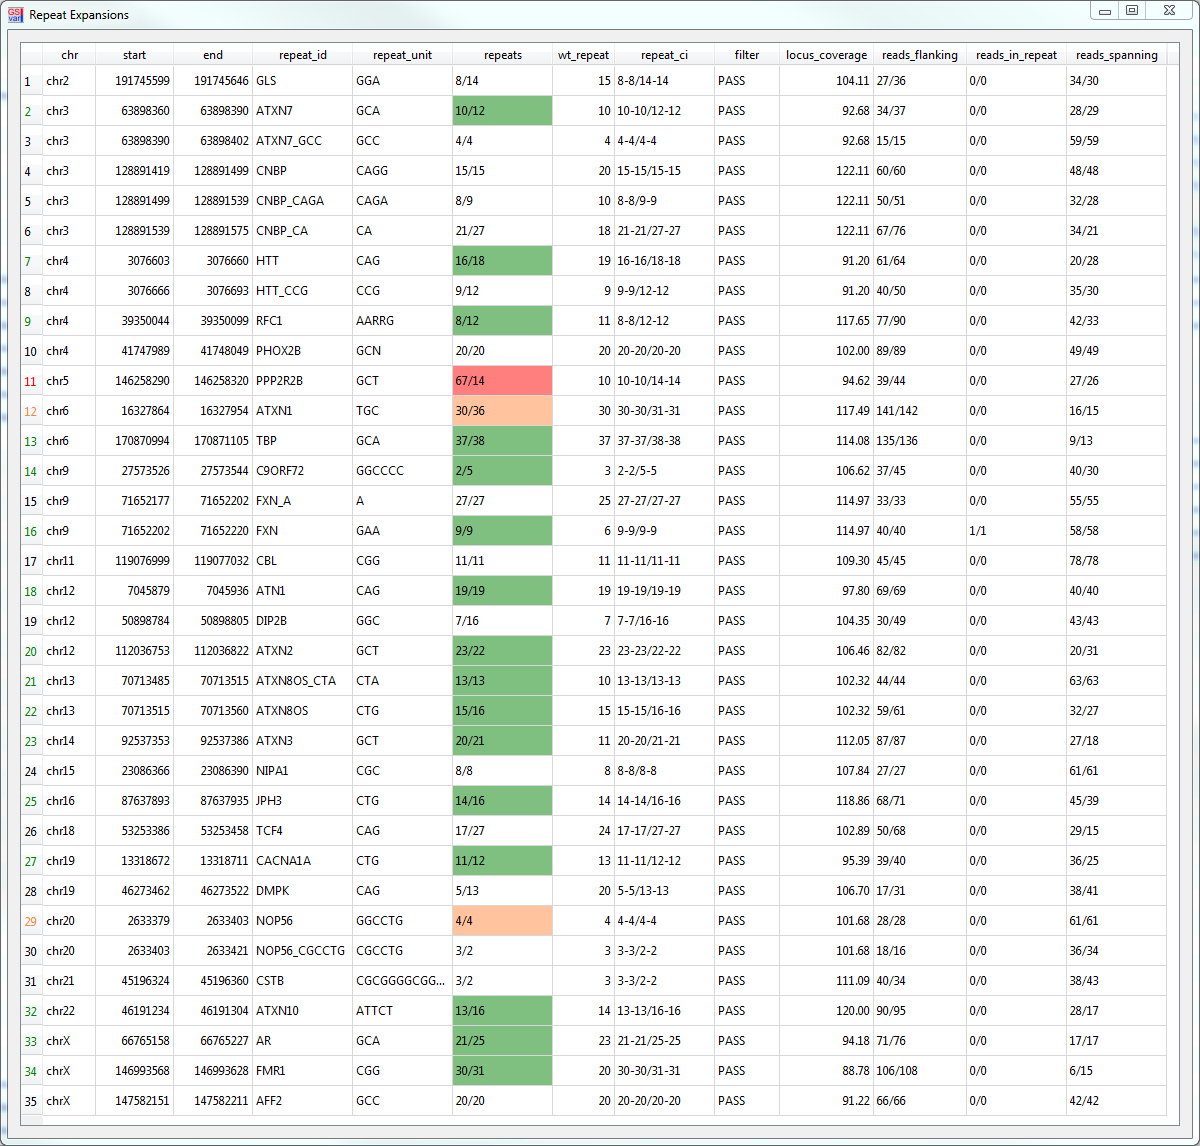
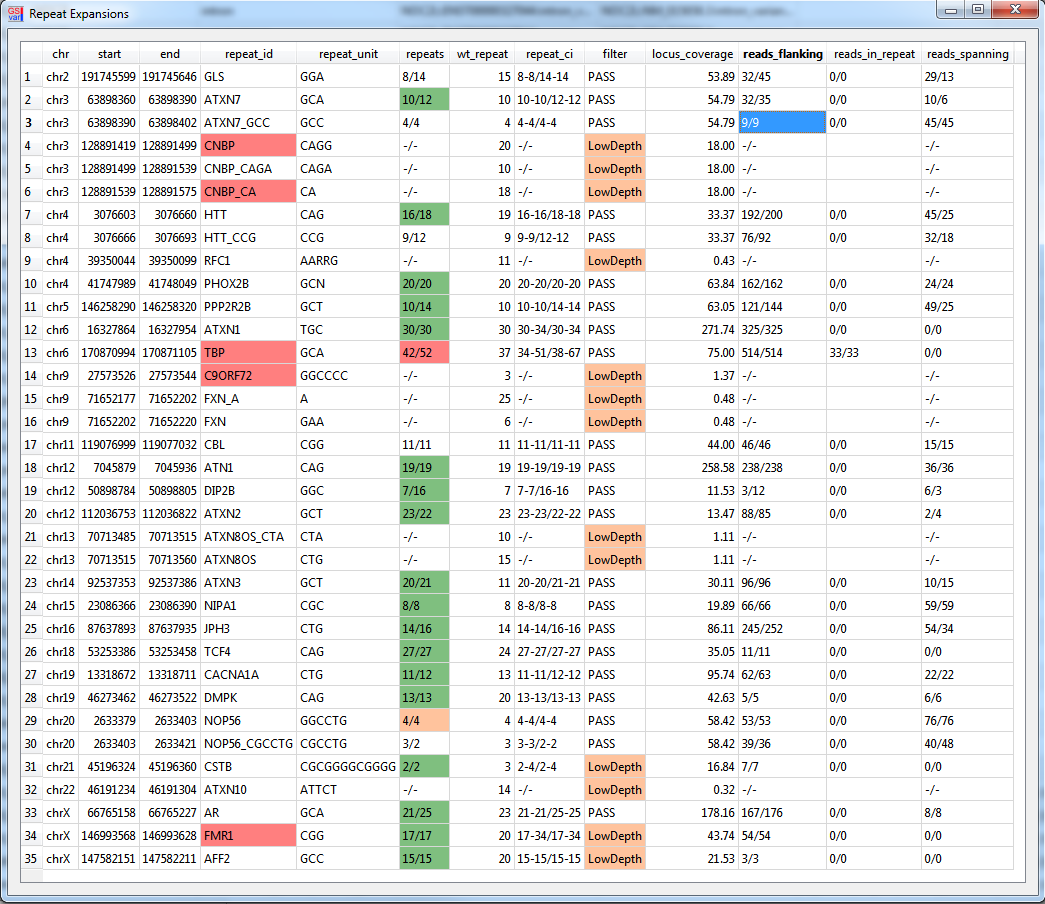
src/GSvar/RepeatExpansionWidget.*: - added coloring of not reliable calls in exome samples - reformated table (column widths, missing values) - extended tool tip for repeats
src/GSvar/Resources/repeat_expansion_cutoffs.tsv: updated cutoff values

doc/GSvar/repeat_expansion_view.*: updated docu

diff --git a/src/GSvar/RepeatExpansionWidget.cpp b/src/GSvar/RepeatExpansionWidget.cpp
@@ -21,9 +21,10 @@ bool NumericWidgetItem::operator<(const QTableWidgetItem& other) const
 	return (this_value < other_value);
 }
 
-RepeatExpansionWidget::RepeatExpansionWidget(QString vcf_filename, QWidget* parent):
+RepeatExpansionWidget::RepeatExpansionWidget(QString vcf_filename, bool is_exome, QWidget* parent):
 	QWidget(parent),
 	vcf_filename_(vcf_filename),
+	is_exome_(is_exome),
 	ui_(new Ui::RepeatExpansionWidget)
 {
 	ui_->setupUi(this);
@@ -42,25 +43,40 @@ void RepeatExpansionWidget::loadRepeatExpansionData()
 	repeat_expansions.load(vcf_filename_);
 
 	//load filter file
-	QMap<QPair<QByteArray,QByteArray>, RepeatCutoff> filters;
-	QStringList filter_content = Helper::loadTextFile(":/Resources/repeat_expansion_cutoffs.tsv", true);
+	QMap<QPair<QByteArray,QByteArray>, RepeatCutoffInfo> cutoff_info_map;
+	QStringList cutoff_file_content = Helper::loadTextFile(":/Resources/repeat_expansion_cutoffs.tsv", false);
 
-	foreach (const QString& line, filter_content)
+	foreach(const QString& line, cutoff_file_content)
 	{
 		// skip empty lines and comments
 		if((line=="") || (line.startsWith("#"))) continue;
 
-		// parse line
+		//parse line
 		QStringList split_line = line.split('\t');
-		if (split_line.size() < 5) THROW(FileParseException, "Error parsing repeat expansion file: file has to contain 4 tab-separated columns!");
-		RepeatCutoff repeat_cutoff;
+		if (split_line.size() < 7) THROW(FileParseException, "Error parsing repeat expansion file: file has to contain 7 tab-separated columns!");
+		RepeatCutoffInfo repeat_cutoff;
 
 		repeat_cutoff.repeat_id = split_line.at(0).trimmed().toUtf8();
 		repeat_cutoff.repeat_unit = split_line.at(1).trimmed().toUtf8();
-		repeat_cutoff.max_normal = Helper::toInt(split_line.at(2));
-		repeat_cutoff.min_pathogenic = Helper::toInt(split_line.at(3));
+		if(split_line.at(2).trimmed() == "") repeat_cutoff.max_normal = -1;
+		else repeat_cutoff.max_normal = Helper::toInt(split_line.at(2));
+		if(split_line.at(3).trimmed() == "") repeat_cutoff.min_pathogenic = -1;
+		else repeat_cutoff.min_pathogenic = Helper::toInt(split_line.at(3));
 		repeat_cutoff.inheritance = split_line.at(4).trimmed().toUtf8();
-		filters.insert(QPair<QByteArray,QByteArray>(repeat_cutoff.repeat_id, repeat_cutoff.repeat_unit), repeat_cutoff);
+
+
+		//parse exome reliability
+		QByteArray reliable_in_exomes = split_line.at(5).trimmed().toUtf8();
+		if(reliable_in_exomes == "0") repeat_cutoff.reliable_in_exomes = false;
+		else repeat_cutoff.reliable_in_exomes = true;
+		//parse additional info
+		QByteArrayList additional_info = split_line.at(6).trimmed().toUtf8().split(';');
+		foreach(const QByteArray& info, additional_info)
+		{
+			if(info.trimmed() != "") repeat_cutoff.additional_info.append(info.trimmed());
+		}
+
+		cutoff_info_map.insert(QPair<QByteArray,QByteArray>(repeat_cutoff.repeat_id, repeat_cutoff.repeat_unit), repeat_cutoff);
 	}
 
 	//create table
@@ -127,10 +143,25 @@ void RepeatExpansionWidget::loadRepeatExpansionData()
 	ui_->repeat_expansions->setRowCount(repeat_expansions.count());
 	for(int row_idx=0; row_idx<repeat_expansions.count(); ++row_idx)
 	{
-		// add vertical header item
-		ui_->repeat_expansions->setVerticalHeaderItem(row_idx, new QTableWidgetItem(QString::number(row_idx+1)));
 		Variant re = repeat_expansions[row_idx];
 		int col_idx = 0;
+
+		// get cutoff/reliability info from cutoff file
+		QPair<QByteArray, QByteArray> key = QPair<QByteArray, QByteArray>(re.annotations()[repeat_id_idx].trimmed(), re.annotations()[repeat_unit_idx].trimmed());
+		if(!cutoff_info_map.contains(key))
+		{
+			THROW(FileParseException, "Repeat '" + re.annotations()[repeat_id_idx].trimmed() + ", " + re.annotations()[repeat_unit_idx].trimmed() + "' not fout in cutoff file!");
+		}
+		RepeatCutoffInfo cutoff_info = cutoff_info_map.value(key);
+
+		//create repeat tool tip:
+		QStringList repeat_tool_tip_text;
+		if(cutoff_info.max_normal != -1) repeat_tool_tip_text.append("normal: \t≤ " + QString::number(cutoff_info.max_normal));
+		else repeat_tool_tip_text.append("normal: \t unkown ");
+		if(cutoff_info.min_pathogenic != -1) repeat_tool_tip_text.append("pathogenic: \t> " + QString::number(cutoff_info.min_pathogenic));
+		else repeat_tool_tip_text.append("pathogenic: \t unkown ");
+		if(cutoff_info.inheritance != "" ) repeat_tool_tip_text.append("inheritance: \t" + cutoff_info.inheritance);
+		if(cutoff_info.additional_info.size() > 0) repeat_tool_tip_text.append("info: \t\t" + cutoff_info.additional_info.join("\n\t\t"));
 
 		//add position
 		ui_->repeat_expansions->setItem(row_idx, col_idx++, new QTableWidgetItem(QString(re.chr().strNormalized(true))));
@@ -138,67 +169,63 @@ void RepeatExpansionWidget::loadRepeatExpansionData()
 		ui_->repeat_expansions->setItem(row_idx, col_idx++, new NumericWidgetItem(QString(re.annotations()[end_idx])));
 
 		//add repeat
-		ui_->repeat_expansions->setItem(row_idx, col_idx++, new QTableWidgetItem(QString(re.annotations()[repeat_id_idx])));
+		QTableWidgetItem* repeat_id_cell = new QTableWidgetItem(QString(re.annotations()[repeat_id_idx]));
+		if (is_exome_ && !cutoff_info.reliable_in_exomes )
+		{
+			repeat_id_cell->setBackgroundColor(bg_red);
+			repeat_id_cell->setToolTip("Repeat calling of this repeat is not reliable in Exomes!");
+		}
+		ui_->repeat_expansions->setItem(row_idx, col_idx++, repeat_id_cell);
 		ui_->repeat_expansions->setItem(row_idx, col_idx++, new QTableWidgetItem(QString(re.annotations()[repeat_unit_idx])));
 
 		//add allele/ref copy number
-		QTableWidgetItem* repeat_cell = new QTableWidgetItem(QString(re.annotations()[allele_repeats_idx]));
+		//replace "." with "-"
+		QString repeat_text = re.annotations()[allele_repeats_idx];
+		if (repeat_text.trimmed() == ".") repeat_text = "-";
+		if (repeat_text.trimmed() == "./.") repeat_text = "-/-";
+		QTableWidgetItem* repeat_cell = new QTableWidgetItem(repeat_text);
 
 		//color table acording to cutoff table
-		QPair<QByteArray, QByteArray> key = QPair<QByteArray, QByteArray>(re.annotations()[repeat_id_idx].trimmed(), re.annotations()[repeat_unit_idx].trimmed());
-		QString tool_tip_text = "No repeat information available.";
-		if (filters.contains(key))
+		QByteArrayList repeats = re.annotations()[allele_repeats_idx].split('/');
+		int repeats_allele1, repeats_allele2;
+		if ((repeats.size() < 1) || (repeats.size() > 2)) THROW(FileParseException, "Invalid allele count in repeat entries!");
+
+		// skip coloring if no repeat information is available:
+		if (repeats.at(0).trimmed() != ".")
 		{
-			RepeatCutoff cutoff = filters.value(key);
-			tool_tip_text = "normal: \t ≤ " + QString::number(cutoff.max_normal)
-					+ "\npathogenic: \t > " + QString::number(cutoff.min_pathogenic)
-					+ "\ninheritance: \t " + cutoff.inheritance;
+			repeats_allele1 = Helper::toInt(repeats.at(0), "Repeat allele 1", QString::number(row_idx));
 
-			QByteArrayList repeats = re.annotations()[allele_repeats_idx].split('/');
-			int repeats_allele1, repeats_allele2;
-			if ((repeats.size() < 1) || (repeats.size() > 2)) THROW(FileParseException, "Invalid allele count in repeat entries!");
+			if (repeats.size() == 1) repeats_allele2 = 0; // special case for male samples on chrX
+			else repeats_allele2 = Helper::toInt(repeats.at(1), "Repeat allele 2", QString::number(row_idx));
 
-			// skip coloring if no repeat information is available:
-			if (repeats.at(0).trimmed() != ".")
+			//check if pathogenic
+			if ((cutoff_info.min_pathogenic != -1) &&
+				((repeats_allele1 >= cutoff_info.min_pathogenic) || (repeats_allele2 >= cutoff_info.min_pathogenic)))
 			{
-				repeats_allele1 = Helper::toInt(repeats.at(0), "Repeat allele 1", QString::number(row_idx));
-
-				if (repeats.size() == 1) repeats_allele2 = 0; // special case for male samples on chrX
-				else repeats_allele2 = Helper::toInt(repeats.at(1), "Repeat allele 2", QString::number(row_idx));
-
-				if ((repeats_allele1 > cutoff.min_pathogenic) || (repeats_allele2 > cutoff.min_pathogenic))
-				{
-					// at least one allele has a pathogenic repeat count
-					ui_->repeat_expansions->verticalHeaderItem(row_idx)->setTextColor(Qt::red);
-					repeat_cell->setBackgroundColor(bg_red);
-				}
-				else if ((repeats_allele1 <= cutoff.max_normal) && (repeats_allele2 <= cutoff.max_normal))
-				{
-					// repeat count in both alleles is in normal range
-					ui_->repeat_expansions->verticalHeaderItem(row_idx)->setTextColor(Qt::darkGreen);
-					repeat_cell->setBackgroundColor(bg_green);
-				}
-				else
-				{
-					// at least one allele is above normal range, but not in pathogenic range
-					ui_->repeat_expansions->verticalHeaderItem(row_idx)->setTextColor(QColor(255, 135, 60)); //orange
-					repeat_cell->setBackgroundColor(bg_orange);
-				}
+				//pathogenic
+				repeat_cell->setBackgroundColor(bg_red);
+			}
+			else if ((cutoff_info.max_normal != -1) &&
+					 ((repeats_allele1 > cutoff_info.max_normal) || (repeats_allele2 > cutoff_info.max_normal)))
+			{
+				//above normal
+				repeat_cell->setBackgroundColor(bg_orange);
+			}
+			else if (cutoff_info.max_normal != -1)
+			{
+				//normal
+				repeat_cell->setBackgroundColor(bg_green);
 			}
 		}
-		else
-		{
-			// no information available --> color black
-			ui_->repeat_expansions->verticalHeaderItem(row_idx)->setTextColor(Qt::black);
-		}
 
-		repeat_cell->setToolTip(tool_tip_text);
+
+		repeat_cell->setToolTip(repeat_tool_tip_text.join('\n'));
 
 		ui_->repeat_expansions->setItem(row_idx, col_idx++, repeat_cell);
 		ui_->repeat_expansions->setItem(row_idx, col_idx++, new NumericWidgetItem(QString(re.annotations()[ref_repeats_idx])));
 
 		//add additional info
-		ui_->repeat_expansions->setItem(row_idx, col_idx++, new QTableWidgetItem(QString(re.annotations()[repeat_ci_idx])));
+		ui_->repeat_expansions->setItem(row_idx, col_idx++, new QTableWidgetItem(QString(re.annotations()[repeat_ci_idx].replace("./.", "-/-").replace(".", "-"))));
 
 		//add filter column and color background if not 'PASS'
 		QTableWidgetItem* filter_cell = new QTableWidgetItem(QString(re.annotations()[filter_idx]));
@@ -210,11 +237,14 @@ void RepeatExpansionWidget::loadRepeatExpansionData()
 		ui_->repeat_expansions->setItem(row_idx, col_idx++, new NumericWidgetItem(QString::number(coverage, 'f', 2)));
 
 		//add read counts
-		ui_->repeat_expansions->setItem(row_idx, col_idx++, new QTableWidgetItem(QString(re.annotations()[fl_reads_idx])));
-		ui_->repeat_expansions->setItem(row_idx, col_idx++, new QTableWidgetItem(QString(re.annotations()[ir_reads_idx])));
-		ui_->repeat_expansions->setItem(row_idx, col_idx++, new QTableWidgetItem(QString(re.annotations()[sp_reads_idx])));
+		ui_->repeat_expansions->setItem(row_idx, col_idx++, new QTableWidgetItem(QString(re.annotations()[fl_reads_idx].replace("./.", "-/-").replace(".", "-"))));
+		ui_->repeat_expansions->setItem(row_idx, col_idx++, new QTableWidgetItem(QString(re.annotations()[ir_reads_idx].replace("./.", "-/-").replace(".", "-"))));
+		ui_->repeat_expansions->setItem(row_idx, col_idx++, new QTableWidgetItem(QString(re.annotations()[sp_reads_idx].replace("./.", "-/-").replace(".", "-"))));
 
 	}
+
+	// optimize column width
+	GUIHelper::resizeTableCells(ui_->repeat_expansions);
 
 	// display vertical header
 	ui_->repeat_expansions->verticalHeader()->setVisible(true);

diff --git a/src/GSvar/MainWindow.cpp b/src/GSvar/MainWindow.cpp
@@ -99,6 +99,7 @@ QT_CHARTS_USE_NAMESPACE
 #include "SomaticReportSettings.h"
 #include "CytobandToRegionsDialog.h"
 #include "RepeatExpansionWidget.h"
+#include "PRSWidget.h"
 
 MainWindow::MainWindow(QWidget *parent)
 	: QMainWindow(parent)
@@ -561,8 +562,16 @@ void MainWindow::on_actionRE_triggered()
 
 	if (QFileInfo(re_file_name).exists())
 	{
+		//get sample type
+		bool is_exome = false;
+		if (LoginManager::active())
+		{
+			QString ps_id = NGSD().processedSampleId(filename_, false);
+			if (ps_id != "") is_exome = (NGSD().getProcessedSampleData(ps_id).processing_system_type == "WES");
+		}
+
 		//show dialog
-		RepeatExpansionWidget* widget = new RepeatExpansionWidget(re_file_name);
+		RepeatExpansionWidget* widget = new RepeatExpansionWidget(re_file_name, is_exome);
 		auto dlg = GUIHelper::createDialog(widget, "Repeat Expansions");
 		addModelessDialog(dlg, false);
 	}
@@ -570,8 +579,8 @@ void MainWindow::on_actionRE_triggered()
 	{
 		QMessageBox::warning(this, "Repeat expansion file missing", "The repeat expansion file does not exist:\n" + re_file_name);
 	}
-
 }
+
 
 void MainWindow::on_actionGeneVariantInfo_triggered()
 {
@@ -1709,6 +1718,20 @@ void MainWindow::loadFile(QString filename)
 	{
 		//activate
 		ui_.actionRE->setEnabled(true);
+
+	}
+
+	//activate PRS menu item if PRS are available
+	QStringList prs_files = Helper::findFiles(path, processedSampleName() + "_prs.tsv", false);
+	if (prs_files.size() < 1)
+	{
+		//deactivate
+		ui_.actionPRS->setEnabled(false);
+	}
+	else
+	{
+		//activate
+		ui_.actionPRS->setEnabled(true);
 
 	}
 }

diff --git a/src/GSvar/RepeatExpansionWidget.h b/src/GSvar/RepeatExpansionWidget.h
@@ -9,13 +9,15 @@ class RepeatExpansionWidget;
 }
 
 // helper struct to store repeat cutoff values
-struct RepeatCutoff
+struct RepeatCutoffInfo
 {
 	QByteArray repeat_id;
 	QByteArray repeat_unit;
 	int max_normal;
 	int min_pathogenic;
 	QByteArray inheritance;
+	bool reliable_in_exomes;
+	QByteArrayList additional_info;
 };
 
 
@@ -32,14 +34,14 @@ class RepeatExpansionWidget : public QWidget
 	Q_OBJECT
 
 public:
-	RepeatExpansionWidget(QString vcf_filename, QWidget *parent = 0);
+	RepeatExpansionWidget(QString vcf_filename, bool is_exome=false, QWidget *parent = 0);
 	~RepeatExpansionWidget();
 
 
 private:
 	void loadRepeatExpansionData();
-	void colorRepeatCell(QTableWidgetItem* cell, const QMap<QPair<QByteArray,QByteArray>, QPair<int,int>>& cutoffs);
 	QString vcf_filename_;
+	bool is_exome_;
 	Ui::RepeatExpansionWidget *ui_;
 };
 

diff --git a/doc/GSvar/repeat_expansion_view.md b/doc/GSvar/repeat_expansion_view.md
@@ -14,7 +14,7 @@ The Repeat Expansion view is a table containing 35 Repeat Expansion which are ca
 
 The table consists of 11 columns: 
 * *chr*, *start*, *end*: chromosomal position of the repeat.
-* *repeat_id*: name of the repeat, often gene name (and repeat sequence).
+* *repeat_id*: name of the repeat, often gene name (and repeat sequence). Repeats which can not be called reliably on exome samples are marked in red (only in exome samples).
 * *repeat_unit*: repetitive sequence of the repeat.
 * *repeats*: number of repeats for each allele.  
 If additional information is available the entries are colored:
@@ -22,7 +22,7 @@ If additional information is available the entries are colored:
 	* ![alt text](yellow.png): repeat count is above normal, but below pathodgenic.
 	* ![alt text](red.png): repeat count is pathogenic.  
 	
-	Additionally each cell contains a tool tip which shows the thresholds and inheritance mode:
+	Additionally each cell contains a tool tip which shows the thresholds, inheritance mode and additional info:
 ![alt text](repeat_expansion_tooltip.png)
 * *wt_repeat*: repeat count of the reference (*wild type*).
 * *repeat_ci*: confidence interval of the reported repeat count (for each allele)
